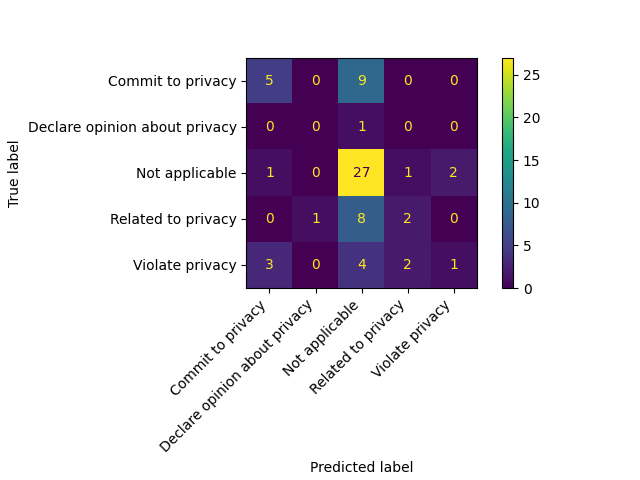
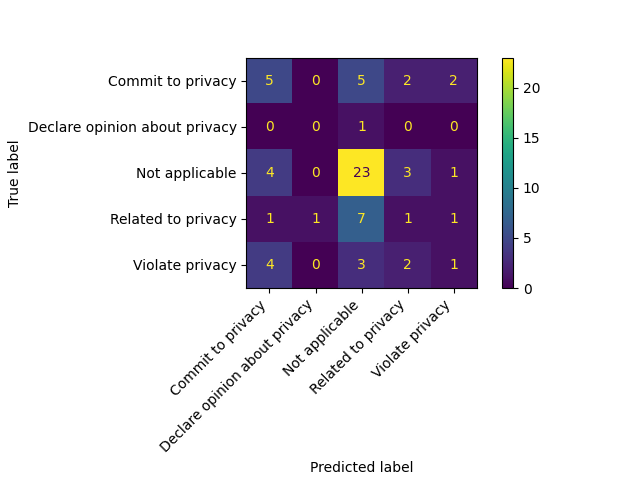
rerun with weighted representation of unigrams to complete features list

diff --git a/AIclassifier.py b/AIclassifier.py
@@ -57,7 +57,7 @@ def format_sentVector_to_SparseMatrix(vectors_list, dictionary):
         counts = Counter(sent_vector)
         for index, freq in counts.items():
             if len(counts.items()) > 0:
-                sparse_vector[index] = 1 #freq/len(sent_vector) # DIFFERENT CONFIGURATION POSSIBILITIES # 1
+                sparse_vector[index] = freq/len(sent_vector) # 1 DIFFERENT CONFIGURATION POSSIBILITIES # 1
         if (i == 0): # TO DO: OPTIMIZE, NO NEED TO CHECK THIS EVERY TURN
             matrix_array = [sparse_vector]
         else:
